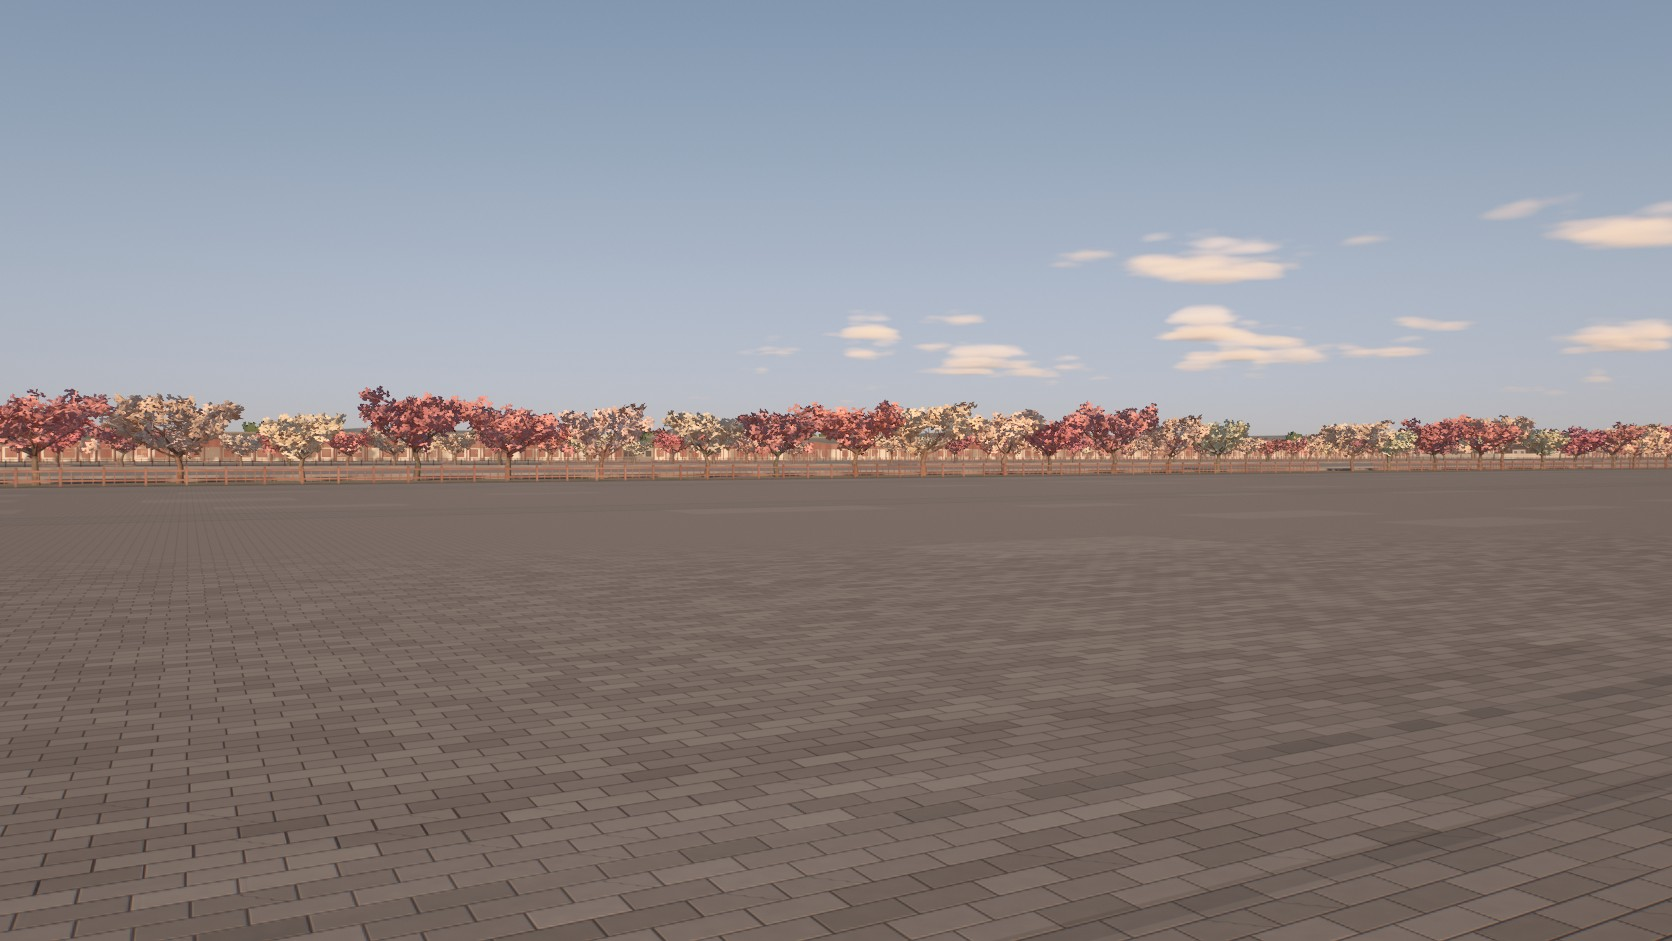
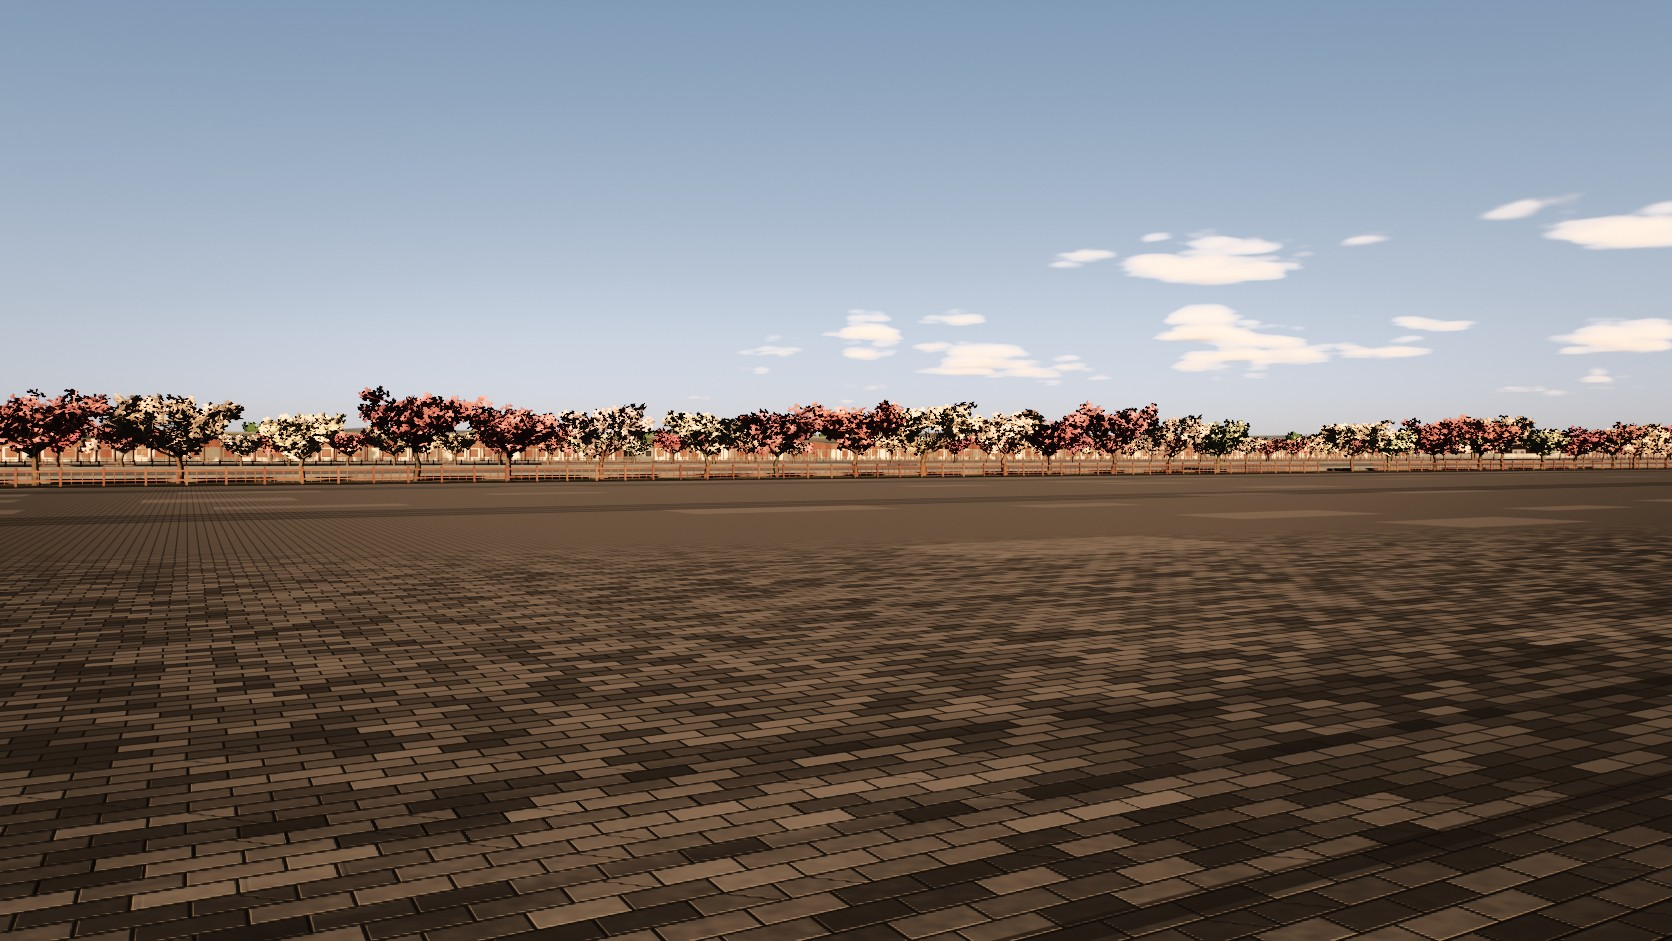
Finish slice 1: final contrast pass, stills and backlog
All gates pass: rules and layout tests, moved camera, reachability from 朱雀门 to
大庆殿, and the static site from a sub-path. Known faults are in docs/BACKLOG.md.
Real-GPU frame rate has not been measured.

diff --git a/dist/src/world/looks.js b/dist/src/world/looks.js
@@ -20,24 +20,38 @@ const MORNING_GRADE = {
   uWhiteBalance: [1.0, 1.0, 1.0], uLift: [0.03, 0.036, 0.05],
   uShadowTint: [-0.005, 0.0, 0.012], uHighTint: [0.012, 0.004, -0.008],
   uSaturation: 0.94, uShadowSat: 0.05, uVibrance: 0.05, uHighSat: 0.1,
-  uLtmFine: 0.12, uLtmMid: 0.22, uLtmLarge: 0.12, uLtmBase: 0.0, uLtmSky: 0.0,
+  // inferred: keep moving and accumulated frames on the same tone curve; local
+  // contrast previously switched on only after movement stopped.
+  uLtmFine: 0, uLtmMid: 0, uLtmLarge: 0, uLtmBase: 0, uLtmSky: 0,
   uVignette: [0.12, 0.85], uBloom: 0.025, uGrain: 0.008, uSharpen: 0.16,
   uLensGlare: 0.18, uLensRays: 0.06, uLensGhost: 0, uAutoLevels: 0,
   uHueShift: [0, 0, 0, 0, 0, 0, 0, 0], uHueSat: [1, 1, 1, 1, 1, 1, 1, 0.85],
   uHueLum: [0, 0, 0, 0, 0, 0, 0, 0], uShoulder: [0.8, 0.96],
 };
 
+// inferred: W7 daylight calibration. A shared, image-metered luminance curve
+// opens deep shadows without the old raised black floor. Its targets apply to
+// the entire world, independently of camera identity and render quality.
+const DAY_CONTRAST = {
+  uExposure: 0.65, uAutoExpo: 0.9, uAutoKey: 0.2,
+  uContrast: 1.9, uPivot: 0.5, uToe: 1.1,
+  uLift: [0.008, 0.008, 0.009], uShadowTint: [0, 0, 0],
+  uHighlights: 0, uShoulder: [0.9, 1.0],
+  uBloom: 0.015, uLensGlare: 0.1, uLensRays: 0.03,
+  uAutoLevels: 1, uLevelTarget: [10, 33, 108, 201.2, 238],
+};
+
 export const TIME_PRESETS = {
   morning: {
-    // inferred: W6 restores golden direct light between the previous look rounds.
+    // inferred: stronger golden direct light against reduced, neutral-cool fill.
     // Sun position remains the art bible's south-east morning direction.
-    sun: { azimuth: SUN.azimuth, elevation: SUN.elevation, color: [1.0, 0.6, 0.28], intensity: 15 },
+    sun: { azimuth: SUN.azimuth, elevation: SUN.elevation, color: [1.0, 0.68, 0.4], intensity: 20 },
     sky: { ...MORNING_SKY,
-      // inferred: preserve the blue zenith while opening enclosed areas with
-      // sky fill. Warm lower-hemisphere bounce colours vertical surfaces.
+      // inferred: preserve the visible blue zenith while reducing and
+      // desaturating IBL; shaded stone should not inherit the sky's blue cast.
       uZenith: [0.27, 0.39, 0.63], uSkyFalloff: 4.0,
       uSkyLower: [1.4, 1.65, 2.1], uSkyHorizonWidth: 0.06,
-      uGround: [0.7, 0.28, 0.08], uEnvScale: 1.3, uEnvBlue: 0.2,
+      uGround: [0.18, 0.17, 0.16], uEnvScale: 0.6, uEnvBlue: 0.05, uEnvSat: 0.15,
       // inferred: optically thinner, softly sunlit low cumulus; the high veil
       // darkened the bright lower sky into broad grey smudges.
       uCloudCover: 0.26, uCloudScale: 4.0, uCloudBase: 2300, uCloudThick: 800,
@@ -45,28 +59,25 @@ export const TIME_PRESETS = {
       uCloudClearRadius: 12500,
       uCirrus: [0, 7500, 0.6],
     },
-    // inferred: gentler midtone contrast and metering open the corridor without
-    // bleaching shadow pigments. Every view uses this same morning grade.
     atmo: { ...MORNING_ATMO, uHazeColor: [1.2, 1.05, 0.94] },
-    grade: { ...MORNING_GRADE, uExposure: 0.65, uContrast: 1.65, uPivot: 0.5, uToe: 0.7,
-      uAutoExpo: 1.2, uAutoKey: 0.3, uHighTint: [0.008, 0.003, -0.004], uShadowSat: 0,
-      uHighlights: 0.15, uAgxPunch: 1.0, uLift: [0.045, 0.045, 0.05], uShadowTint: [0, 0, 0.006],
-      uSaturation: 0.96, uVibrance: 0.05, uLtmFine: 0.2, uLtmMid: 0.3, uLtmLarge: 0.18, uSharpen: 0.2 },
+    grade: { ...MORNING_GRADE, ...DAY_CONTRAST,
+      uHighTint: [0.008, 0.003, -0.004], uShadowSat: 0,
+      uAgxPunch: 1.0, uSaturation: 0.96, uSharpen: 0.2 },
   },
   sunset: {
-    sun: { azimuth: 255, elevation: 8, color: [1.0, 0.67, 0.4], intensity: 7.5 },
+    sun: { azimuth: 255, elevation: 8, color: [1.0, 0.67, 0.4], intensity: 10 },
     // inferred: a pale blue-to-peach evening sky, with the same city-wide
-    // fair-weather clearing as morning. Warm ground bounce balances sky fill.
+    // clearing and reduced, nearly neutral ground bounce as morning.
     sky: { ...MORNING_SKY, uZenith: [0.15, 0.23, 0.34], uSkyFalloff: 3.5,
       uSkyLower: [0.8, 0.85, 1.0], uSkyHorizonWidth: 0.09,
-      uSkyAureole: [0.35, 0.7, 4], uGround: [0.25, 0.2, 0.17],
-      uEnvScale: 0.8, uEnvBlue: 0.1,
+      uSkyAureole: [0.35, 0.7, 4], uGround: [0.18, 0.17, 0.16],
+      uEnvScale: 0.6, uEnvBlue: 0.05, uEnvSat: 0.15,
       uCloudCover: 0.26, uCloudScale: 4.0, uCloudBase: 2300, uCloudThick: 800,
       uCloudSigma: 0.004, uCloudBright: 4.0, uCloudAmbient: 0.6, uCloudErode: 0.6,
       uCloudClearRadius: 12500 },
     atmo: { ...MORNING_ATMO, uHazeColor: [0.85, 0.72, 0.62], uMistColor: [0.66, 0.59, 0.6],
       uMie: [0.72, 1.1, 0.5] },
-    grade: { ...MORNING_GRADE, uExposure: 1.1, uContrast: 1.65, uSaturation: 0.96 },
+    grade: { ...MORNING_GRADE, ...DAY_CONTRAST, uSaturation: 0.96 },
   },
   bluehour: {
     sun: { azimuth: 275, elevation: -4, color: [1, 0.35, 0.16], intensity: 0 },

diff --git a/src/world/looks.js b/src/world/looks.js
@@ -20,24 +20,38 @@ const MORNING_GRADE = {
   uWhiteBalance: [1.0, 1.0, 1.0], uLift: [0.03, 0.036, 0.05],
   uShadowTint: [-0.005, 0.0, 0.012], uHighTint: [0.012, 0.004, -0.008],
   uSaturation: 0.94, uShadowSat: 0.05, uVibrance: 0.05, uHighSat: 0.1,
-  uLtmFine: 0.12, uLtmMid: 0.22, uLtmLarge: 0.12, uLtmBase: 0.0, uLtmSky: 0.0,
+  // inferred: keep moving and accumulated frames on the same tone curve; local
+  // contrast previously switched on only after movement stopped.
+  uLtmFine: 0, uLtmMid: 0, uLtmLarge: 0, uLtmBase: 0, uLtmSky: 0,
   uVignette: [0.12, 0.85], uBloom: 0.025, uGrain: 0.008, uSharpen: 0.16,
   uLensGlare: 0.18, uLensRays: 0.06, uLensGhost: 0, uAutoLevels: 0,
   uHueShift: [0, 0, 0, 0, 0, 0, 0, 0], uHueSat: [1, 1, 1, 1, 1, 1, 1, 0.85],
   uHueLum: [0, 0, 0, 0, 0, 0, 0, 0], uShoulder: [0.8, 0.96],
 };
 
+// inferred: W7 daylight calibration. A shared, image-metered luminance curve
+// opens deep shadows without the old raised black floor. Its targets apply to
+// the entire world, independently of camera identity and render quality.
+const DAY_CONTRAST = {
+  uExposure: 0.65, uAutoExpo: 0.9, uAutoKey: 0.2,
+  uContrast: 1.9, uPivot: 0.5, uToe: 1.1,
+  uLift: [0.008, 0.008, 0.009], uShadowTint: [0, 0, 0],
+  uHighlights: 0, uShoulder: [0.9, 1.0],
+  uBloom: 0.015, uLensGlare: 0.1, uLensRays: 0.03,
+  uAutoLevels: 1, uLevelTarget: [10, 33, 108, 201.2, 238],
+};
+
 export const TIME_PRESETS = {
   morning: {
-    // inferred: W6 restores golden direct light between the previous look rounds.
+    // inferred: stronger golden direct light against reduced, neutral-cool fill.
     // Sun position remains the art bible's south-east morning direction.
-    sun: { azimuth: SUN.azimuth, elevation: SUN.elevation, color: [1.0, 0.6, 0.28], intensity: 15 },
+    sun: { azimuth: SUN.azimuth, elevation: SUN.elevation, color: [1.0, 0.68, 0.4], intensity: 20 },
     sky: { ...MORNING_SKY,
-      // inferred: preserve the blue zenith while opening enclosed areas with
-      // sky fill. Warm lower-hemisphere bounce colours vertical surfaces.
+      // inferred: preserve the visible blue zenith while reducing and
+      // desaturating IBL; shaded stone should not inherit the sky's blue cast.
       uZenith: [0.27, 0.39, 0.63], uSkyFalloff: 4.0,
       uSkyLower: [1.4, 1.65, 2.1], uSkyHorizonWidth: 0.06,
-      uGround: [0.7, 0.28, 0.08], uEnvScale: 1.3, uEnvBlue: 0.2,
+      uGround: [0.18, 0.17, 0.16], uEnvScale: 0.6, uEnvBlue: 0.05, uEnvSat: 0.15,
       // inferred: optically thinner, softly sunlit low cumulus; the high veil
       // darkened the bright lower sky into broad grey smudges.
       uCloudCover: 0.26, uCloudScale: 4.0, uCloudBase: 2300, uCloudThick: 800,
@@ -45,28 +59,25 @@ export const TIME_PRESETS = {
       uCloudClearRadius: 12500,
       uCirrus: [0, 7500, 0.6],
     },
-    // inferred: gentler midtone contrast and metering open the corridor without
-    // bleaching shadow pigments. Every view uses this same morning grade.
     atmo: { ...MORNING_ATMO, uHazeColor: [1.2, 1.05, 0.94] },
-    grade: { ...MORNING_GRADE, uExposure: 0.65, uContrast: 1.65, uPivot: 0.5, uToe: 0.7,
-      uAutoExpo: 1.2, uAutoKey: 0.3, uHighTint: [0.008, 0.003, -0.004], uShadowSat: 0,
-      uHighlights: 0.15, uAgxPunch: 1.0, uLift: [0.045, 0.045, 0.05], uShadowTint: [0, 0, 0.006],
-      uSaturation: 0.96, uVibrance: 0.05, uLtmFine: 0.2, uLtmMid: 0.3, uLtmLarge: 0.18, uSharpen: 0.2 },
+    grade: { ...MORNING_GRADE, ...DAY_CONTRAST,
+      uHighTint: [0.008, 0.003, -0.004], uShadowSat: 0,
+      uAgxPunch: 1.0, uSaturation: 0.96, uSharpen: 0.2 },
   },
   sunset: {
-    sun: { azimuth: 255, elevation: 8, color: [1.0, 0.67, 0.4], intensity: 7.5 },
+    sun: { azimuth: 255, elevation: 8, color: [1.0, 0.67, 0.4], intensity: 10 },
     // inferred: a pale blue-to-peach evening sky, with the same city-wide
-    // fair-weather clearing as morning. Warm ground bounce balances sky fill.
+    // clearing and reduced, nearly neutral ground bounce as morning.
     sky: { ...MORNING_SKY, uZenith: [0.15, 0.23, 0.34], uSkyFalloff: 3.5,
       uSkyLower: [0.8, 0.85, 1.0], uSkyHorizonWidth: 0.09,
-      uSkyAureole: [0.35, 0.7, 4], uGround: [0.25, 0.2, 0.17],
-      uEnvScale: 0.8, uEnvBlue: 0.1,
+      uSkyAureole: [0.35, 0.7, 4], uGround: [0.18, 0.17, 0.16],
+      uEnvScale: 0.6, uEnvBlue: 0.05, uEnvSat: 0.15,
       uCloudCover: 0.26, uCloudScale: 4.0, uCloudBase: 2300, uCloudThick: 800,
       uCloudSigma: 0.004, uCloudBright: 4.0, uCloudAmbient: 0.6, uCloudErode: 0.6,
       uCloudClearRadius: 12500 },
     atmo: { ...MORNING_ATMO, uHazeColor: [0.85, 0.72, 0.62], uMistColor: [0.66, 0.59, 0.6],
       uMie: [0.72, 1.1, 0.5] },
-    grade: { ...MORNING_GRADE, uExposure: 1.1, uContrast: 1.65, uSaturation: 0.96 },
+    grade: { ...MORNING_GRADE, ...DAY_CONTRAST, uSaturation: 0.96 },
   },
   bluehour: {
     sun: { azimuth: 275, elevation: -4, color: [1, 0.35, 0.16], intensity: 0 },

diff --git a/dist/src/core/quality.js b/dist/src/core/quality.js
@@ -9,19 +9,20 @@ export const QUALITY = {
     detail: 0.5,          // geometric detail multiplier (segments, sculpt resolution)
     // AO costs one half-resolution pass; its bilateral compose shares accumulation.
     // inferred: extra samples and soft sun shadows are accumulated only after stopping.
-    cloudSteps: 16, bloom: true, settleLtm: true, ao: true, aoSamples: 12, aoSettleSamples: 24, aoStrength: 0.65,
+    // inferred: stronger contact darkening at both moving and settled sample counts.
+    cloudSteps: 16, bloom: true, settleLtm: true, ao: true, aoSamples: 12, aoSettleSamples: 24, aoStrength: 0.9,
   },
   high: {
     name: 'high', spp: 12, msaa: 4,
     shadowMapSize: 4096, cascades: 4, shadowMaxFar: 2400, softShadows: true,
     terrainRes: 1.0, density: 1.0, detail: 1.0,
-    cloudSteps: 32, bloom: true, ao: true, aoSamples: 24, aoSettleSamples: 32, aoStrength: 0.65,
+    cloudSteps: 32, bloom: true, ao: true, aoSamples: 24, aoSettleSamples: 32, aoStrength: 0.9,
   },
   ultra: {
     name: 'ultra', spp: 48, msaa: 4,
     shadowMapSize: 4096, cascades: 4, shadowMaxFar: 3200, softShadows: true,
     terrainRes: 1.0, density: 1.0, detail: 1.0,
-    cloudSteps: 64, bloom: true, ao: true, aoSamples: 32, aoSettleSamples: 32, aoStrength: 0.65,
+    cloudSteps: 64, bloom: true, ao: true, aoSamples: 32, aoSettleSamples: 32, aoStrength: 0.9,
   },
 };
 

diff --git a/src/core/quality.js b/src/core/quality.js
@@ -9,19 +9,20 @@ export const QUALITY = {
     detail: 0.5,          // geometric detail multiplier (segments, sculpt resolution)
     // AO costs one half-resolution pass; its bilateral compose shares accumulation.
     // inferred: extra samples and soft sun shadows are accumulated only after stopping.
-    cloudSteps: 16, bloom: true, settleLtm: true, ao: true, aoSamples: 12, aoSettleSamples: 24, aoStrength: 0.65,
+    // inferred: stronger contact darkening at both moving and settled sample counts.
+    cloudSteps: 16, bloom: true, settleLtm: true, ao: true, aoSamples: 12, aoSettleSamples: 24, aoStrength: 0.9,
   },
   high: {
     name: 'high', spp: 12, msaa: 4,
     shadowMapSize: 4096, cascades: 4, shadowMaxFar: 2400, softShadows: true,
     terrainRes: 1.0, density: 1.0, detail: 1.0,
-    cloudSteps: 32, bloom: true, ao: true, aoSamples: 24, aoSettleSamples: 32, aoStrength: 0.65,
+    cloudSteps: 32, bloom: true, ao: true, aoSamples: 24, aoSettleSamples: 32, aoStrength: 0.9,
   },
   ultra: {
     name: 'ultra', spp: 48, msaa: 4,
     shadowMapSize: 4096, cascades: 4, shadowMaxFar: 3200, softShadows: true,
     terrainRes: 1.0, density: 1.0, detail: 1.0,
-    cloudSteps: 64, bloom: true, ao: true, aoSamples: 32, aoSettleSamples: 32, aoStrength: 0.65,
+    cloudSteps: 64, bloom: true, ao: true, aoSamples: 32, aoSettleSamples: 32, aoStrength: 0.9,
   },
 };
 

diff --git a/docs/ROADMAP.md b/docs/ROADMAP.md
@@ -6,16 +6,16 @@ at the same time.
 | Wave | Task | Delivers | Status |
 |---|---|---|---|
 | 0 | T0 | Engine, render tools, walk and fly | Done |
-| 1 | T1 | `src/yingzao/`: any Song timber hall from parameters, with LODs | |
-| 1 | T2 | `src/materials/`, 彩画, 鸱尾 and roof ornaments | |
-| 1 | T3 | `src/flora/`: willow, blossom trees, lotus, palace trees, cranes | |
-| 2 | T4 | 宣德楼: masonry platform, reliefs, doors, 朵楼, 阙亭, palace wall | Base done, in backlog |
-| 2 | T5 | 御街: paving, 杈子, 御沟, 御廊 at the real 312 m | |
-| 2 | T6 | 州桥, carved walls, 汴河, boats, twin 阙 | |
-| 3 | T7 | 大庆殿 court, galleries, palace halls | |
-| 3 | T8 | Inner-city roofs, 朱雀门, inner wall, 铁塔, horizon | |
-| 4 | T9 | Browser delivery: baking, loading by district, quality tiers, vendored three.js, static build | |
-| 4 | T10 | Look-dev against `refs/generated/`: light, grade, composition, final fixes | |
-| 4 | T11 | Evidence view, README, hosted-ready build, final stills | |
+| 1 | T1 | `src/yingzao/`: any Song timber hall from parameters, with LODs | Done, see backlog |
+| 1 | T2 | `src/materials/`, 彩画, 鸱尾 and roof ornaments | Done, see backlog |
+| 1 | T3 | `src/flora/`: willow, blossom trees, lotus, palace trees, cranes | Done, see backlog |
+| 2 | T4 | 宣德楼: masonry platform, reliefs, doors, 朵楼, 阙亭, palace wall | Done, see backlog |
+| 2 | T5 | 御街: paving, 杈子, 御沟, 御廊 at the real 312 m | Done, see backlog |
+| 2 | T6 | 州桥, carved walls, 汴河, boats, twin 阙 | Done, see backlog |
+| 3 | T7 | 大庆殿 court, galleries, palace halls | Done, see backlog |
+| 3 | T8 | Inner-city roofs, 朱雀门, inner wall, 铁塔, horizon | Done, see backlog |
+| 4 | T9 | Browser delivery: baking, loading by district, quality tiers, vendored three.js, static build | Done, see backlog |
+| 4 | T10 | Look-dev against `refs/generated/`: light, grade, composition, final fixes | Done, see backlog |
+| 4 | T11 | Evidence view, README, hosted-ready build, final stills | Done, see backlog |
 
 Later, not in slice 1: crowds, the rest of the city (虹桥, 相国寺, 樊楼, 艮岳, 金明池), day and night cycle.

diff --git a/docs/BACKLOG.md b/docs/BACKLOG.md
@@ -15,3 +15,13 @@ Known faults for the whole-world polish rounds, added at each gate. Biggest firs
 
 ## Light (TL)
 - See `docs/tasks/TL2-look-round2.md`.
+
+## After the final contrast pass (shots at `media/`)
+- Shot 4: alleys and shadows go too black from the air, and the main palace court is a large bare plate. No reference-level density yet.
+- Shot 2: brick contrast is harsh and regular up close. Far blossom line is thin. The 312 m avenue is still the emptiest view.
+- Shot 7: vermilion is flat and over-saturated, with no worn paint. Blossom trees are sparse.
+- Shot 9: blue hour reads thin. Few lights compared with `ref9`.
+- Shot 6: carving is legible but stylised, well short of `ref6`. Relief repeats exactly.
+- Willows close up, cranes close up, and 大庆殿 still has no ground mist reading in `high`.
+- Shot 6 is slightly over budget at 6.03 M triangles in `preview`. The low tier is at 2.6 M against a 1.5 M target.
+- No real-GPU frame rate has been measured. Baking isn't in use yet, so load time depends on JS build plus cloud noise generation.
